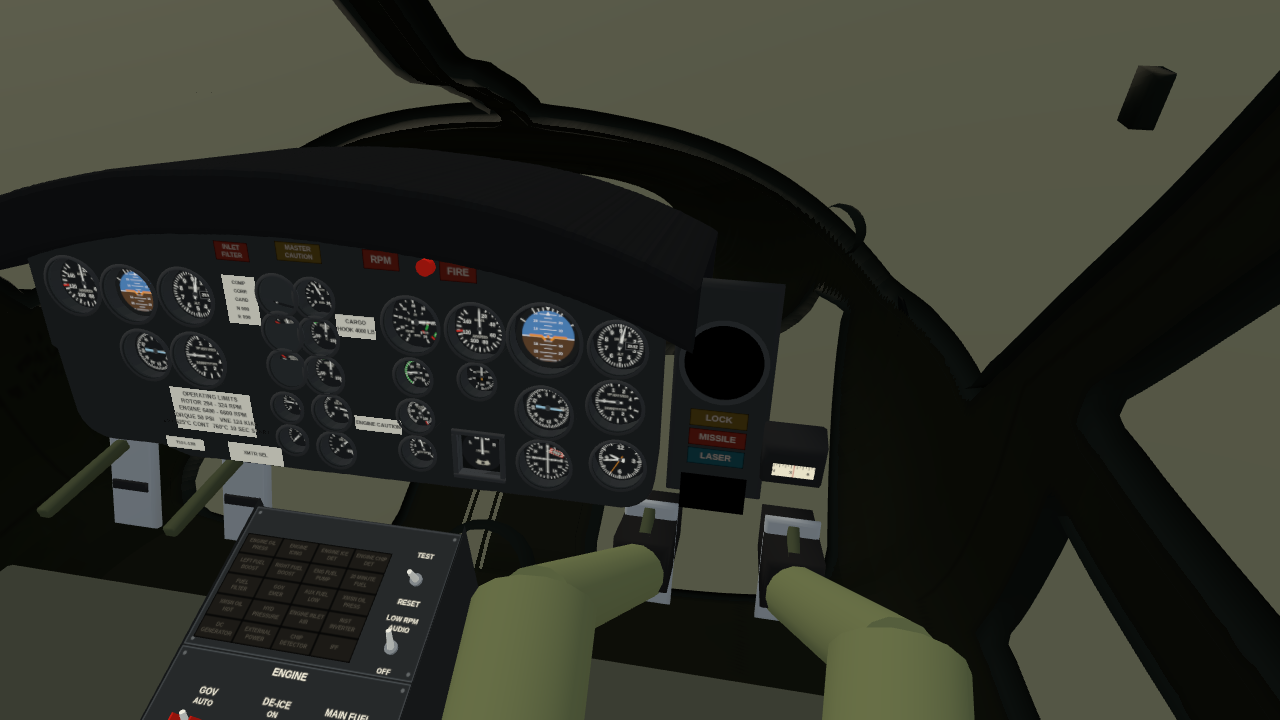
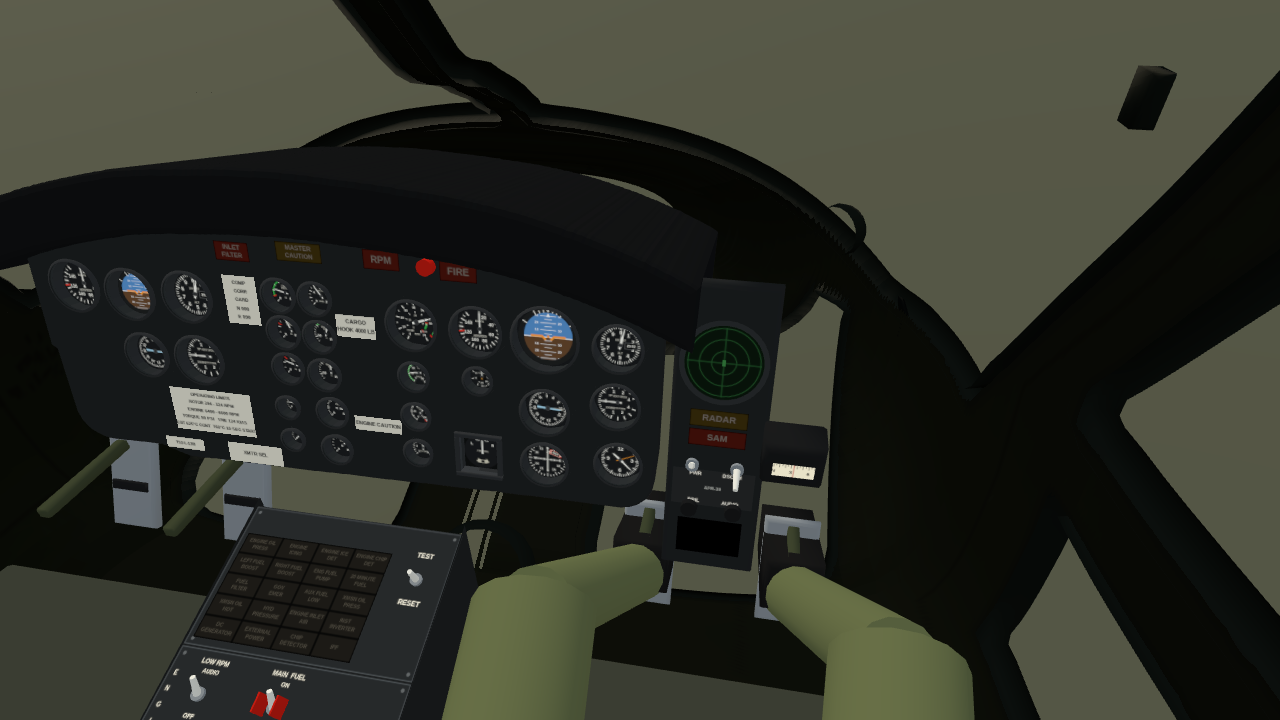
look-huey cockpit: the RWR block as the AN/APR-39(V)1 per TM -10 para 3-30 (idle CRT scope face, RADAR / SAM lamps, PWR / DSCRM, BRIL / AUDIO), no laser legend; M130 control drawn unpowered and kept as a fit option

diff --git a/game/js/hueycockpit.js b/game/js/hueycockpit.js
@@ -277,14 +277,25 @@ const sc = faceCols.filter(c => c.x >= -0.5 && c.x <= 0.49);   // the glare shie
   // CM (ngc/cmpolish): right of the pilot's flight instruments, the AN/APR-39 radar warning scope (green strobes toward
   // each radar painting you, longer as its lock builds), three threat lamps, and the M130 dispenser's counters
   const rwrT = canvasTex(192, 192);
+  { const c = rwrT.ctx; c.fillStyle = '#071209'; c.fillRect(0, 0, 192, 192); c.strokeStyle = '#1d4a24'; c.lineWidth = 2; for (const r of [30, 60, 88]) { c.beginPath(); c.arc(96, 96, r, 0, TAU); c.stroke(); } c.beginPath(); c.moveTo(96, 6); c.lineTo(96, 186); c.moveTo(6, 96); c.lineTo(186, 96); c.stroke(); c.fillStyle = '#2c6a34'; c.fillRect(92, 88, 8, 16); rwrT.tex.needsUpdate = true; }   // idle CRT: range rings, cross, own-ship mark
   // (hi-fi: on a small add-on panel outboard of the pilot's flight group, as the APR-39 indicator was retrofitted)
-  const [rx, ry] = LP.rwr; if (HF) box(0.13, 0.3, 0.03, panelM, rx, ry - 0.05, -0.02, P);
+  const [rx, ry] = LP.rwr; if (HF) box(0.13, 0.42, 0.03, panelM, rx, ry - 0.11, -0.02, P);
   { const o = new THREE.Mesh(new THREE.CircleGeometry(0.05, 32), new THREE.MeshBasicMaterial({ map: rwrT.tex, toneMapped: false })); o.position.set(rx, ry, 0.004); P.add(o);
     const ring = new THREE.Mesh(new THREE.RingGeometry(0.05, 0.057, 32), ringM); ring.position.set(rx, ry, 0.006); P.add(ring); }
-  const lockL = lamp(P, 0.075, 0.024, rx, ry - 0.078, 0.005, 'LOCK', '#ffaa18', '#2e2408');
-  const mslL = lamp(P, 0.075, 0.024, rx, ry - 0.106, 0.005, 'MISSILE', '#ff2a14', '#3a0e08');
-  const lasL = lamp(P, 0.075, 0.024, rx, ry - 0.134, 0.005, 'LASER', '#40e0ff', '#08262c');
-  const cmT = canvasTex(240, 150); plane(0.088, 0.055, new THREE.MeshBasicMaterial({ map: cmT.tex, toneMapped: false }), rx, ry - 0.19, 0.004, P);
+  // hi-fi: the AN/APR-39(V)1 as the -10 para 3-30 describes it: the scope (IP-1150, idle face drawn below), the control's
+  // PWR / DSCRM switches and BRIL / AUDIO knobs; its warnings are a fire-control radar tracking and an activated SAM
+  // (radar track + missile guidance coincident), so the lamps read RADAR and SAM; no laser warning existed in 1980 (that
+  // lamp is kept dark and unlabelled for the game's LANCE events, which show on the scope)
+  const lockL = lamp(P, 0.075, 0.024, rx, ry - 0.078, 0.005, HF ? 'RADAR' : 'LOCK', '#ffaa18', '#2e2408');
+  const mslL = lamp(P, 0.075, 0.024, rx, ry - 0.106, 0.005, HF ? 'SAM' : 'MISSILE', '#ff2a14', '#3a0e08');
+  const lasL = lamp(P, 0.075, 0.024, rx, ry - 0.134, 0.005, HF ? '' : 'LASER', '#40e0ff', '#08262c'); if (HF) lasL.visible = false;
+  const aprHead = () => {   // the APR-39 control head under the lamps: PWR and DSCRM toggles, BRIL and AUDIO knobs, legends (built once toggle() exists)
+    for (const [x, t] of [[-0.03, 'PWR'], [0.03, 'DSCRM']]) { toggle('apr' + t, P, rx + x, ry - 0.15, '', { dummy: true, on: t === 'PWR' }); }
+    for (const x of [-0.03, 0.03]) cyl(0.011, 0.012, 0.012, black, rx + x, ry - 0.215, 0.006, P, Math.PI / 2, 0, 16);
+    const lt = canvasTex(240, 120); { const c = lt.ctx; c.fillStyle = '#1d1f20'; c.fillRect(0, 0, 240, 120); txt(c, 'PWR', 66, 14, '#d8d6cc', 15); txt(c, 'DSCRM', 174, 14, '#d8d6cc', 15); txt(c, 'BRIL', 66, 106, '#d8d6cc', 15); txt(c, 'AUDIO', 174, 106, '#d8d6cc', 15); txt(c, 'APR-39', 120, 60, '#9a9d98', 14); lt.tex.needsUpdate = true; }
+    plane(0.11, 0.055, new THREE.MeshBasicMaterial({ map: lt.tex, toneMapped: false }), rx, ry - 0.183, 0.0035, P);
+  };
+  const cmT = canvasTex(240, 150); plane(0.088, 0.055, new THREE.MeshBasicMaterial({ map: cmT.tex, toneMapped: false }), rx, ry - (HF ? 0.26 : 0.19), 0.004, P);   // M130 dispenser control (fit option: 1980 Army fielding unverified)
   let cmKey = '';
   function drawCm(S) {   // M130 dispenser control panel: counters and the ARM lamp (flat paint, white stencils)
     const d = S.cm, pw = S.volts > 18, k = d ? `${pw}${d.flare}${d.chaff}${d.queue.length > 0}` : '-';
@@ -295,7 +306,8 @@ const sc = faceCols.filter(c => c.x >= -0.5 && c.x <= 0.49);   // the glare shie
     win(62, 'FLARE', d ? d.flare : 0); win(178, 'CHAFF', d ? d.chaff : 0);
     c.fillStyle = pw ? (d && d.queue.length ? '#ffe070' : '#3b8a3a') : '#1a2a1a'; c.fillRect(100, 124, 40, 18); txt(c, 'ARM', 120, 134, '#111', 13);
     cmT.tex.needsUpdate = true;
-  }
+  }  drawCm({ volts: 0, cm: null });   // the unpowered face, until the game's countermeasures update it
+
 
   // ---------------------------------------------------------------- switches and hit boxes
   const hitM = new THREE.MeshBasicMaterial({ visible: false }), hits = [], hitsOf = {}, sw = {}, push = {}, pt = {};
@@ -313,6 +325,7 @@ const sc = faceCols.filter(c => c.x >= -0.5 && c.x <= 0.49);   // the glare shie
   const button = (id, p, x, y, r, mat, label) => { const b = cyl(r, r, 0.012, mat, x, y, 0.006, p, Math.PI / 2, 0, 14); push[id] = { o: b, z: 0.006 }; hit(id, r * 3, r * 3, 0.04, x, y, 0.015, p, label); return b; };
   // panel top: FIRE light, FIRE EXT push button, RPM / MASTER CAUTION lights (the master caution lamp also resets)
   button('fire', P, ...LP.fireBtn, 0.011, redM, 'FIRE EXTINGUISHER  -  PUSH');
+  if (HF) aprHead();
   hit('mc', 0.075, 0.036, 0.03, ...LP.mc, 0.01, P, 'MASTER CAUTION RESET');
   // hover marker: a thin yellow frame on whatever the crosshair / cursor is over
   const hovs = [0, 1].map(() => { const o = new THREE.LineSegments(new THREE.EdgesGeometry(new THREE.BoxGeometry(1, 1, 1)), new THREE.LineBasicMaterial({ color: 0xffd040, depthTest: false, transparent: true })); o.renderOrder = 9; o.visible = false; o.matrixAutoUpdate = false; g.add(o); return o; });   // one per hit box of the id (MASTER CAUTION has two)
